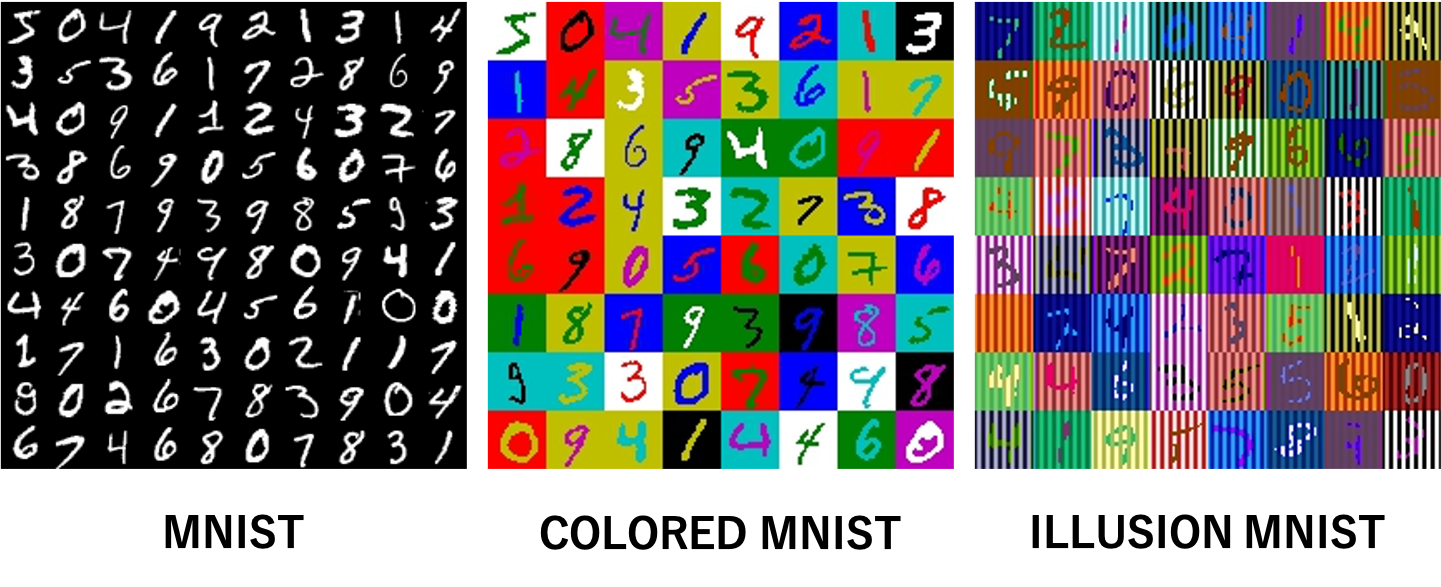
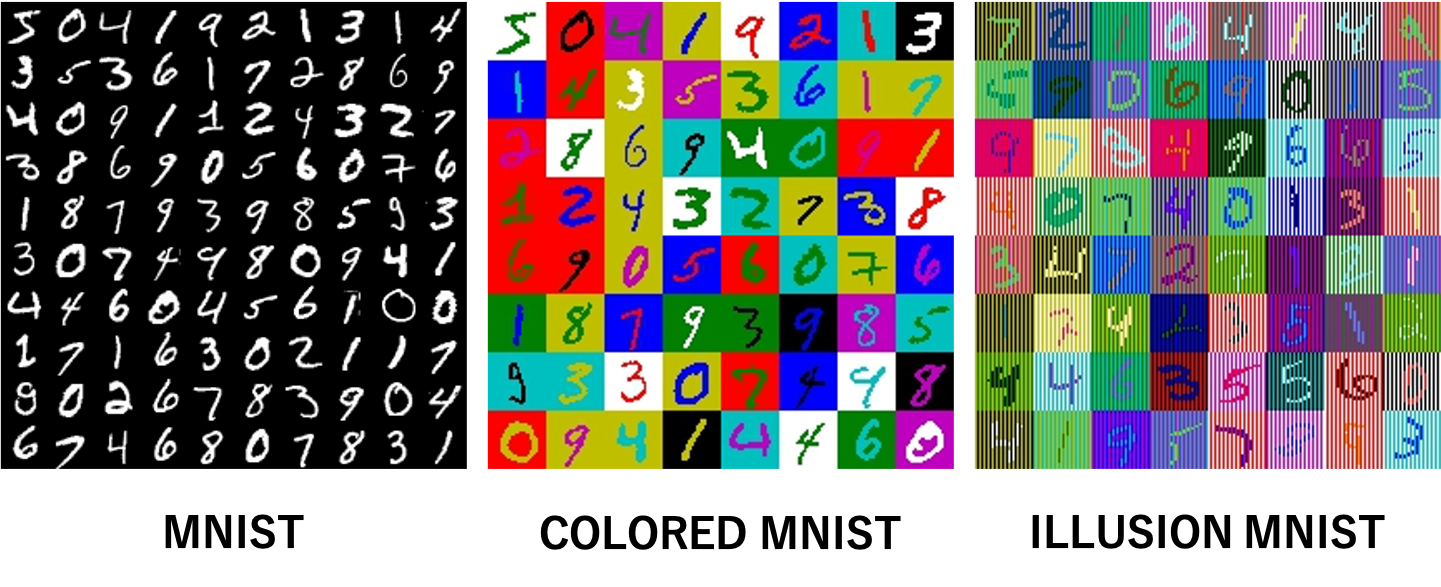
modelをシンプルに変更

Changed region(s): [[0.6558, 0.0, 1.0, 0.7973]]

diff --git a/main.py b/main.py
@@ -57,6 +57,36 @@ def main():
 
         history['train_loss'].append(sum(loss_list)/len(loss_list))
 
+    ############################ Test Model(use train_data) ############################
+    test_img = color_mnist.train_img.permute(0, 3, 2, 1)
+    test_size = test_img.shape[0]
+    dataset = torch.utils.data.TensorDataset(test_img, color_mnist.train_color_label)
+    dataloader = DataLoader(dataset, batch_size=1)
+
+    net.eval()
+    test_loss = []
+    correct = 0
+
+    calc_softmax = nn.Softmax()
+
+    with torch.no_grad():
+        for i, (data, target) in enumerate(dataloader):
+
+            data = data.to(device)
+            target = target.to(device)
+
+            output = net(data)
+            output = calc_softmax(output)
+            pred = output.argmax(dim=1, keepdim=True)
+            correct += pred.eq(target.view_as(pred)).sum().item()
+
+    history['test_acc'].append((correct/test_size) * 100)
+
+    print("Train Accuracy")
+    print((correct/test_size) * 100)
+
+
+
     ############################ Test Model ############################
     test_img = color_mnist.normal_test_img.permute(0, 3, 2, 1)
     test_size = test_img.shape[0]
@@ -92,6 +122,8 @@ def main():
     net.eval()
     ill_test_loss = []
     ill_correct = 0
+    wrong_index = []
+    wrong_output = []
 
     with torch.no_grad():
         for i, (data, target) in enumerate(dataloader):
@@ -103,6 +135,14 @@ def main():
             output = calc_softmax(output)
             pred = output.argmax(dim=1, keepdim=True)
             ill_correct += pred.eq(target.view_as(pred)).sum().item()
+
+            # 認識が間違っていた場合
+            if pred.eq(target.view_as(pred)).sum().item() == 0:
+                wrong_index.append(i)
+                wrong_output.append(pred)
+
+
+    color_mnist.one_img_show(color_mnist.ill_test_img[wrong_index[0]])
 
     history['ill_test_acc'].append((ill_correct/test_size) * 100)
 

diff --git a/color_net.py b/color_net.py
@@ -9,32 +9,26 @@ class ColorNet(torch.nn.Module):
         super(ColorNet, self).__init__()
 
         # Conv2d --> (in_channels, out_channels, kerel_size, padding)
-        self.conv1 = nn.Conv2d(3, 32, 3, 1)
+        self.conv1 = nn.Conv2d(3, 2, 12, 1)
         self.pool1 = nn.MaxPool2d(2)
-        self.conv2 = nn.Conv2d(32, 16, 3, 1)
-        self.pool2 = nn.MaxPool2d(2)
-        self.conv3 = nn.Conv2d(16, 8, 3, 1)
-        self.pool3 = nn.MaxPool2d(2)
-        self.fc1 = nn.Linear(400, 100)
-        self.fc2 = nn.Linear(100, color_num)
+        # self.conv2 = nn.Conv2d(8, 4, 3, 1)
+        # self.pool2 = nn.MaxPool2d(2)
+        self.fc1 = nn.Linear(128, color_num)
         self.relu = nn.ReLU()
+        self.dropout = nn.Dropout(p=0.5)
         self.softmax = nn.Softmax()
 
 
     def forward(self, x):
         batch_size = x.shape[0]
 
-        x = self.conv1(x)
-        x = self.relu(x)
+        x = self.dropout(self.relu(self.conv1(x)))
         x = self.pool1(x)
-        x = self.conv2(x)
-        x = self.relu(x)
-        x = self.pool2(x)
+        # x = self.dropout(self.relu(self.conv2(x)))
+        # x = self.pool2(x)
 
         # Linearに入力するために1次元にする
         x = x.view(batch_size, -1)
         x = self.fc1(x)
-        x = self.relu(x)
-        x = self.fc2(x)
 
         return x

diff --git a/colored_mnist.py b/colored_mnist.py
@@ -30,7 +30,7 @@ class ColoredMnist():
 
     def one_img_show(self, img):
         pil_img = Image.fromarray(np.uint8(img*255))
-        # pil_img.show()
+        pil_img.show()
         return pil_img
 
 
